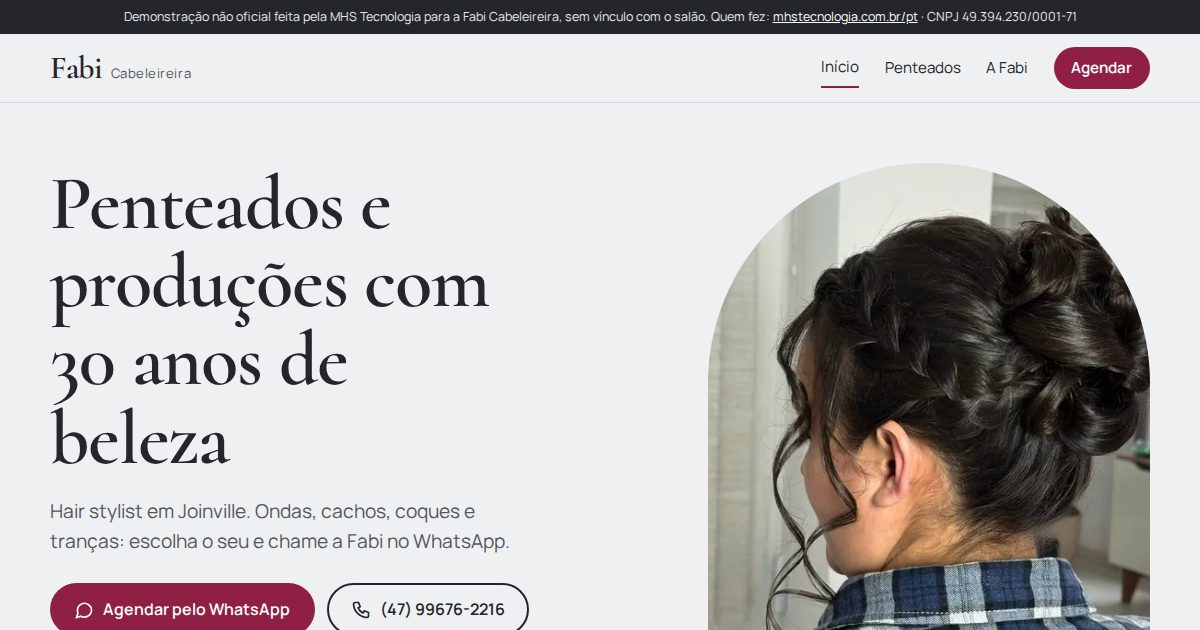
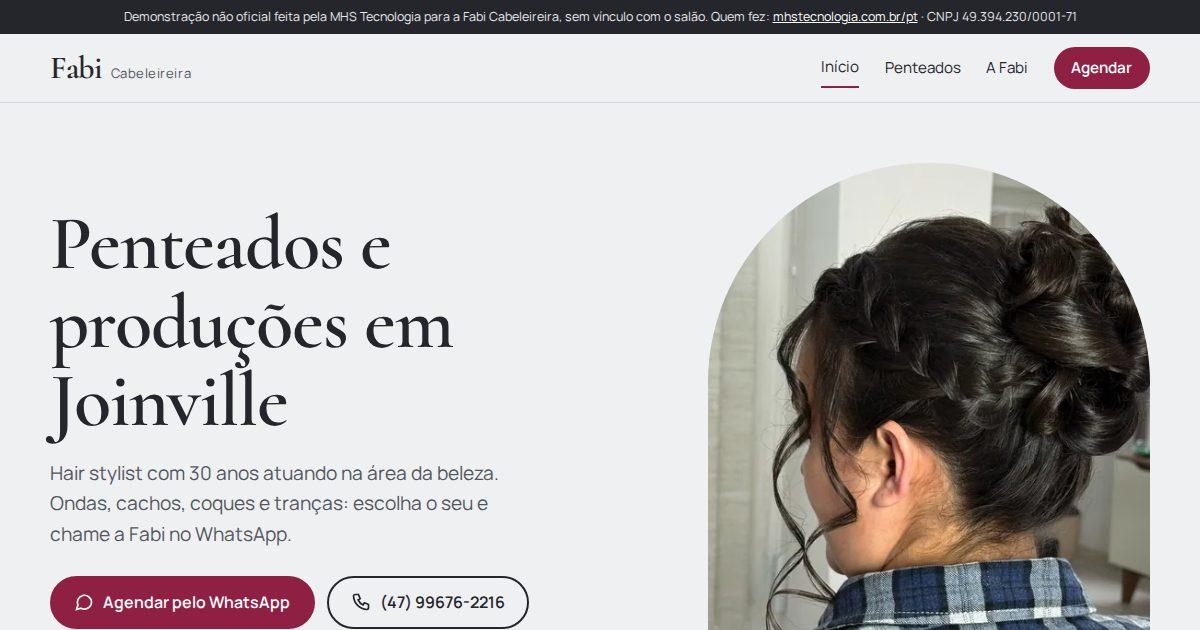
Previews: 182 ativos

Changed region(s): [[0.0308, 0.2714, 0.4317, 0.8746], [0.0308, 0.9048, 0.4625, 1.0]]

diff --git a/fabi-cabeleireira-joinville-sc/index.html b/fabi-cabeleireira-joinville-sc/index.html
@@ -25,7 +25,7 @@
 
 <header class="topo">
   <div class="largura topo-in">
-    <a class="marca" href="index.html" aria-label="Fabi Cabeleireira, início"><b>Fabi</b><span>Cabeleireira</span></a>
+    <a class="marca" href="index.html"><b>Fabi</b> <span>Cabeleireira</span></a>
     <nav class="nav" aria-label="Principal">
       <a href="index.html" aria-current="page">Início</a>
       <a href="penteados.html">Penteados</a>
@@ -48,11 +48,11 @@
   <section class="hero" id="hero">
     <div class="largura hero-grade">
       <div class="hero-texto">
-        <h1>Penteados e produções com 30 anos de beleza</h1>
-        <p class="lead">Hair stylist em Joinville. Ondas, cachos, coques e tranças: escolha o seu e chame a Fabi no WhatsApp.</p>
+        <h1>Penteados e produções em Joinville</h1>
+        <p class="lead">Hair stylist com 30 anos atuando na área da beleza. Ondas, cachos, coques e tranças: escolha o seu e chame a Fabi no WhatsApp.</p>
         <div class="acoes">
           <a class="btn btn-wa" href="https://wa.me/5547996762216?text=Ol%C3%A1%2C%20Fabi!%20Vi%20o%20site%20e%20quero%20agendar%20um%20hor%C3%A1rio."><svg viewBox="0 0 24 24" fill="none" stroke="currentColor" stroke-width="2" aria-hidden="true"><path d="M21 12a8.5 8.5 0 0 1-12.6 7.4L3 21l1.7-5.2A8.5 8.5 0 1 1 21 12z"/></svg>Agendar pelo WhatsApp</a>
-          <a class="btn btn-linha" href="tel:+5547996762216" aria-label="Ligar para (47) 99676-2216"><svg viewBox="0 0 24 24" fill="none" stroke="currentColor" stroke-width="2" aria-hidden="true"><path d="M5 3h4l2 5-2.5 1.5a11 11 0 0 0 6 6L16 13l5 2v4a2 2 0 0 1-2 2A17 17 0 0 1 3 5a2 2 0 0 1 2-2z"/></svg><span class="tel-num">(47) 99676-2216</span></a>
+          <a class="btn btn-linha" href="tel:+5547996762216"><svg viewBox="0 0 24 24" fill="none" stroke="currentColor" stroke-width="2" aria-hidden="true"><path d="M5 3h4l2 5-2.5 1.5a11 11 0 0 0 6 6L16 13l5 2v4a2 2 0 0 1-2 2A17 17 0 0 1 3 5a2 2 0 0 1 2-2z"/></svg><span class="tel-num">(47) 99676-2216</span></a>
         </div>
 
       </div>
@@ -63,7 +63,6 @@
       <ul class="fatos">
           <li><svg viewBox="0 0 24 24" fill="none" stroke="currentColor" stroke-width="2" aria-hidden="true"><path d="M8 21h8M12 17v4M7 4h10v5a5 5 0 0 1-10 0zM7 6H4a3 3 0 0 0 3 4M17 6h3a3 3 0 0 1-3 4"/></svg>Destaque 2023</li>
           <li><svg viewBox="0 0 24 24" fill="none" stroke="currentColor" stroke-width="2" aria-hidden="true"><circle cx="12" cy="12" r="9"/><path d="M12 7v5l3 2"/></svg>30 anos atuando na área da beleza</li>
-          <li><svg viewBox="0 0 24 24" fill="none" stroke="currentColor" stroke-width="2" aria-hidden="true"><rect x="3" y="3" width="18" height="18" rx="5"/><circle cx="12" cy="12" r="4"/></svg>845 publicações no Instagram</li>
         </ul>
     </div>
   </section>
@@ -101,13 +100,13 @@
       <div>
         <h2 id="t-faixa" class="sr">Quem é a Fabi</h2>
         <blockquote>“30 anos atuando na área da beleza.”</blockquote>
-        <p>É assim que o salão se apresenta no Instagram, ao lado do Destaque 2023. Hair stylist em Joinville, com as produções mostradas uma a uma nas fotos.</p>
+        <p>Destaque 2023. Hair stylist em Joinville, com produções de ondas, cachos, coques e tranças.</p>
         <p><a class="link" href="a-fabi.html">Conheça a Fabi</a></p>
       </div>
       <div class="faixa-fotos">
         <figure>
-          <img src="img/ondas-laterais-480.webp" srcset="img/ondas-laterais-480.webp 480w, img/ondas-laterais-800.webp 800w" sizes="(max-width: 860px) 45vw, 22vw" width="480" height="600" alt="Ondas laterais em cabelo com mechas claras, jogadas sobre o ombro" loading="lazy" decoding="async">
-          <figcaption class="legenda">Ondas laterais</figcaption>
+          <img src="img/cachos-soltos-480.webp" srcset="img/cachos-soltos-480.webp 480w, img/cachos-soltos-800.webp 800w" sizes="(max-width: 860px) 45vw, 22vw" width="480" height="600" alt="Cachos soltos e longos caindo sobre o ombro" loading="lazy" decoding="async">
+          <figcaption class="legenda">Cachos soltos</figcaption>
         </figure>
         <figure>
           <img src="img/preso-alto-480.webp" srcset="img/preso-alto-480.webp 480w, img/preso-alto-800.webp 800w" sizes="(max-width: 860px) 45vw, 22vw" width="480" height="600" alt="Preso alto e polido, com o cabelo puxado para trás" loading="lazy" decoding="async">
@@ -120,7 +119,7 @@
   <section class="secao fim" aria-labelledby="t-fim">
     <div class="largura">
       <h2 id="t-fim">Comece aqui</h2>
-      <p class="intro">Na bio do salão, o primeiro passo é uma mensagem. Conte o penteado e a data, e a Fabi responde pelo WhatsApp.</p>
+      <p class="intro">O primeiro passo é uma mensagem. Conte o penteado e a data pelo WhatsApp.</p>
       <div class="acoes">
         <a class="btn btn-wa" href="https://wa.me/5547996762216?text=Ol%C3%A1%2C%20Fabi!%20Vi%20o%20site%20e%20quero%20agendar%20um%20hor%C3%A1rio."><svg viewBox="0 0 24 24" fill="none" stroke="currentColor" stroke-width="2" aria-hidden="true"><path d="M21 12a8.5 8.5 0 0 1-12.6 7.4L3 21l1.7-5.2A8.5 8.5 0 1 1 21 12z"/></svg>Chamar no WhatsApp</a>
         <a class="btn btn-linha" href="penteados.html">Ver todos os penteados</a>

diff --git a/fabi-cabeleireira-joinville-sc/penteados.html b/fabi-cabeleireira-joinville-sc/penteados.html
@@ -17,7 +17,7 @@
 
 <header class="topo">
   <div class="largura topo-in">
-    <a class="marca" href="index.html" aria-label="Fabi Cabeleireira, início"><b>Fabi</b><span>Cabeleireira</span></a>
+    <a class="marca" href="index.html"><b>Fabi</b> <span>Cabeleireira</span></a>
     <nav class="nav" aria-label="Principal">
       <a href="index.html">Início</a>
       <a href="penteados.html" aria-current="page">Penteados</a>
@@ -40,7 +40,7 @@
   <section class="secao topo-pagina">
     <div class="largura">
       <h1>Penteados</h1>
-      <p class="intro">Dezesseis produções do Instagram do salão, separadas por estilo. Toque numa foto para ver maior e pedir o mesmo penteado pelo WhatsApp.</p>
+      <p class="intro">Quinze produções do salão, separadas por estilo. Toque numa foto para ver maior e pedir o mesmo penteado pelo WhatsApp.</p>
 
       <div class="grupo">
         <h2>Ondas</h2>
@@ -48,7 +48,6 @@
           <li><button type="button" data-img="ondas-grisalho" data-nome="Ondas no grisalho"><img src="img/ondas-grisalho-480.webp" width="480" height="600" alt="Ondas modeladas em cabelo grisalho na altura do ombro" loading="lazy" decoding="async"><span>Ondas no grisalho</span></button></li>
           <li><button type="button" data-img="ondas-medias" data-nome="Ondas médias"><img src="img/ondas-medias-480.webp" width="480" height="600" alt="Ondas médias e volumosas em cabelo escuro" loading="lazy" decoding="async"><span>Ondas médias</span></button></li>
           <li><button type="button" data-img="ondas-loiro" data-nome="Ondas no loiro"><img src="img/ondas-loiro-480.webp" width="480" height="600" alt="Ondas longas em cabelo loiro, jogadas para um lado" loading="lazy" decoding="async"><span>Ondas no loiro</span></button></li>
-          <li><button type="button" data-img="ondas-laterais" data-nome="Ondas laterais"><img src="img/ondas-laterais-480.webp" width="480" height="600" alt="Ondas laterais em cabelo com mechas claras, jogadas sobre o ombro" loading="lazy" decoding="async"><span>Ondas laterais</span></button></li>
         </ul>
       </div>
 

diff --git a/fabi-cabeleireira-joinville-sc/a-fabi.html b/fabi-cabeleireira-joinville-sc/a-fabi.html
@@ -17,7 +17,7 @@
 
 <header class="topo">
   <div class="largura topo-in">
-    <a class="marca" href="index.html" aria-label="Fabi Cabeleireira, início"><b>Fabi</b><span>Cabeleireira</span></a>
+    <a class="marca" href="index.html"><b>Fabi</b> <span>Cabeleireira</span></a>
     <nav class="nav" aria-label="Principal">
       <a href="index.html">Início</a>
       <a href="penteados.html">Penteados</a>
@@ -42,14 +42,13 @@
       <div>
         <h1>A Fabi</h1>
         <div class="bio">
-          <p>Fabi Cabeleireira é um salão de beleza em Joinville. No Instagram, o perfil @fabi.cabeleireira reúne 845 publicações de produções: ondas, cachos, coques, tranças e escovas.</p>
+          <p>Fabi Cabeleireira é um salão de beleza em Joinville. Produções de ondas, cachos, coques, tranças e escovas.</p>
         </div>
-        <ul class="citacoes" aria-label="Da bio do Instagram">
+        <ul class="citacoes">
           <li>“30 anos atuando na área da beleza”</li>
           <li>“Destaque 2023”</li>
           <li>“Hair stylist”</li>
         </ul>
-        <p class="legenda">Frases da bio do Instagram do salão.</p>
       </div>
       <aside class="contato" aria-labelledby="t-contato">
         <h2 id="t-contato">Comece aqui</h2>
@@ -74,7 +73,7 @@
     <div class="largura faixa-grade">
       <div>
         <h2 id="t-mais">Do grisalho ao loiro</h2>
-        <p>Ondas no grisalho, cachos curtos no acobreado, liso longo no preto e ondas no loiro: tudo nas fotos do Instagram do salão.</p>
+        <p>Ondas no grisalho, cachos curtos no acobreado, liso longo no preto e ondas no loiro.</p>
         <p><a class="link" href="penteados.html">Ver os penteados</a></p>
       </div>
       <div class="faixa-fotos">

diff --git a/fabi-cabeleireira-joinville-sc/estilo.css b/fabi-cabeleireira-joinville-sc/estilo.css
@@ -173,7 +173,7 @@ dialog.caixa::backdrop{background:rgba(24,25,29,.86)}
   .hero .acoes{flex-wrap:nowrap}
   .hero .btn-wa{flex:1;justify-content:center;padding-inline:1rem}
   .hero .btn-linha{padding-inline:1rem}
-  .tel-num{display:none}
+  .tel-num{position:absolute;width:1px;height:1px;overflow:hidden;clip:rect(0 0 0 0);white-space:nowrap}
   .hero .btn-linha{width:52px;padding:0;justify-content:center;flex:none}
   .hero-grade,.prov-grade,.faixa-grade,.sobre-grade,.pe-grade{grid-template-columns:1fr}
   .hero{padding-top:1.4rem}
